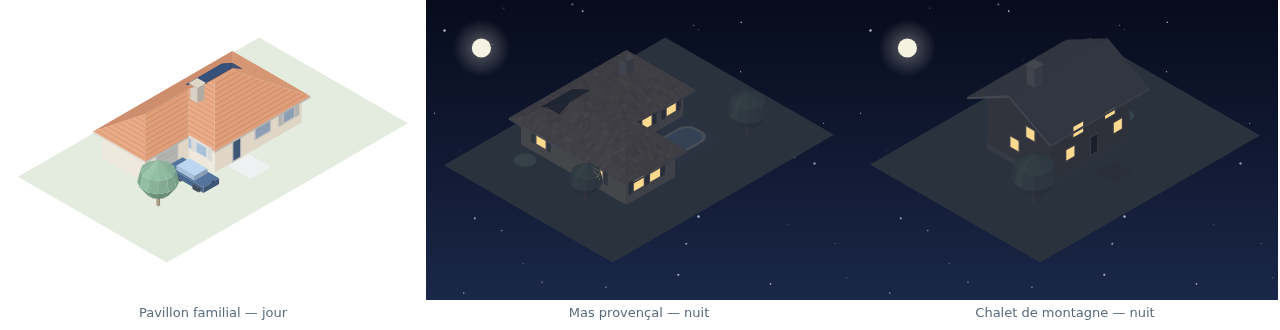
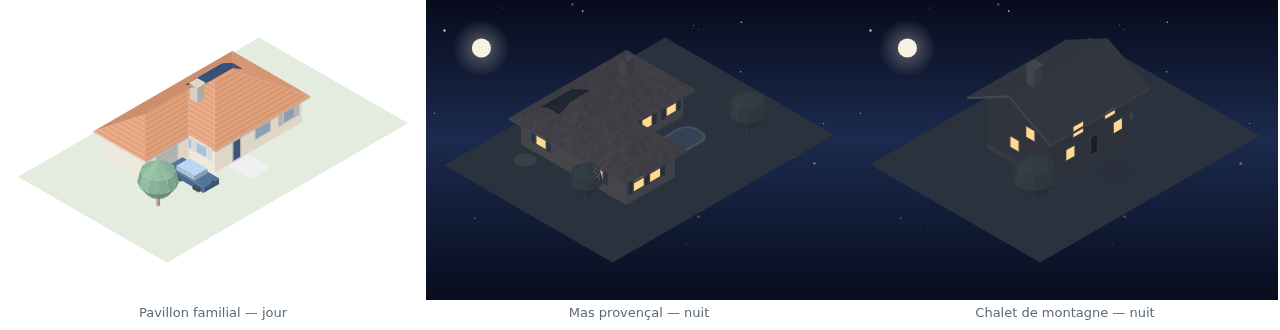
Arrête les étoiles avant le bas, et rend le ciel sous cadrage
Deux défauts signalés sur la vue de nuit, dont le second révèle une
contradiction que j'avais laissée dans la conception.

Le champ d'étoiles descendait jusqu'au bas de l'image, sous le jardin : la
maison paraissait flotter dans l'espace. Les étoiles s'éteignent maintenant en
traversant la moitié basse, et le dégradé du ciel gagne un troisième arrêt pour
s'assombrir à nouveau sous l'horizon au lieu de rester clair jusqu'en bas.

Sous cadrage, le ciel n'apparaissait pas du tout : le fond de terrain que
j'avais ajouté pour empêcher un recadrage serré de montrer un coin vide
couvrait l'image entière — et de surcroît sans traitement de nuit, donc en vert
pelouse de plein jour. Les deux ne peuvent pas coexister, et il vaut la peine
de dire pourquoi : en axonométrie, un sol non borné se projette sur *toute*
l'image. S'il y a un ciel, c'est uniquement parce que la parcelle est finie.
Fond de terrain pleine image et ciel visible sont le même réglage à ses deux
extrêmes. Le jour garde l'aplat, la nuit garde le ciel.

Le test du dégradé échantillonnait le haut et le bas de l'image, désormais
deux noirs presque identiques : il aurait passé que le dégradé survive ou non.
Il compare maintenant l'horizon aux deux extrémités. Les deux corrections sont
vérifiées en les retirant.

124 tests.

diff --git a/src/render/svg.js b/src/render/svg.js
@@ -288,16 +288,23 @@ function pathData(face, camera) {
  * preview, and re-exporting tomorrow has to give the same image.
  */
 function nightSky(width, height, defs, prefix) {
+  // Three stops, not two. The sky lightens a little towards the horizon and
+  // goes dark again below it: with a single fall from zenith to floor, the
+  // bottom of the picture stayed as starry as the top and the plot read as
+  // floating in space rather than standing on the ground at night.
   const id = `${prefix}-sky`;
   defs.push(
     `<linearGradient id="${id}" x1="0" y1="0" x2="0" y2="1">` +
     `<stop offset="0" stop-color="${NIGHT.sky[0]}"/>` +
-    `<stop offset="1" stop-color="${NIGHT.sky[1]}"/></linearGradient>`,
+    `<stop offset="0.46" stop-color="${NIGHT.sky[1]}"/>` +
+    `<stop offset="1" stop-color="${NIGHT.sky[2]}"/></linearGradient>`,
   );
   const out = [`<rect width="${width}" height="${height}" fill="url(#${id})"/>`];
 
-  // Scattered over the whole frame, not only the upper part: the ground and
-  // the house cover the rest, which is exactly how a sky behaves.
+  // Stars belong overhead. They thin out through the lower half and are gone
+  // by the bottom of the frame — the plot is finite, so there is sky around it
+  // whichever way you look, and a starfield underneath the garden is the one
+  // reading nobody wants.
   const n = Math.min(220, Math.round((width * height) / 2600));
   const hash = (i, k) => {
     const v = Math.sin(i * 12.9898 + k * 78.233) * 43758.5453;
@@ -305,10 +312,13 @@ function nightSky(width, height, defs, prefix) {
   };
   const stars = [];
   for (let i = 0; i < n; i++) {
+    const y = hash(i, 2) * height;
+    const fade = Math.max(0, Math.min(1, (0.88 * height - y) / (0.43 * height)));
+    if (fade < 0.02) continue;
     const r = (0.4 + hash(i, 3) * 1.0).toFixed(2);
     stars.push(`<circle cx="${(hash(i, 1) * width).toFixed(1)}" `
-      + `cy="${(hash(i, 2) * height).toFixed(1)}" r="${r}" `
-      + `opacity="${(0.25 + hash(i, 4) * 0.6).toFixed(2)}"/>`);
+      + `cy="${y.toFixed(1)}" r="${r}" `
+      + `opacity="${((0.25 + hash(i, 4) * 0.6) * fade).toFixed(2)}"/>`);
   }
   out.push(`<g fill="${NIGHT.star}">${stars.join('')}</g>`);
 
@@ -352,6 +362,11 @@ export function renderScene(input, opts = {}) {
   const b = built.bounds.empty ? { i0: 0, j0: 0, i1: 1, j1: 1 } : built.bounds;
   const cs = model.grid?.cellSize || 1;
   const framed = model.focus?.enabled;
+  // Night is a grade over whichever palette is in use, applied once, at the
+  // point the fills are computed: the textures take their shades from `fill`
+  // and the outlines are derived from it, so both follow without knowing.
+  const night = !!model.style.night;
+  const graded = (mat, hex) => (night ? nightColour(mat, hex) : hex);
   const camera = new Camera({
     yaw: model.camera.yaw,
     pitch: model.camera.pitch,
@@ -419,8 +434,14 @@ export function renderScene(input, opts = {}) {
    * stretches away without bound. Painting the frame in the ground's own
    * colour first does, and costs one rectangle. Only under a frame: in the
    * ordinary view the edge of the plot is a real edge, worth seeing.
+   *
+   * And not at night, where the sky already fills the frame. Note what this
+   * says about an axonometric view: an unbounded ground plane projects over
+   * the *whole* image, so a sky can only exist because the plot is finite. A
+   * full-bleed ground and a visible sky are the same setting at two ends —
+   * you cannot have both, and after dark the sky is the one worth having.
    */
-  if (framed && model.ground?.enabled) {
+  if (framed && !night && model.ground?.enabled) {
     floor.push(`<rect width="${width}" height="${height}" `
       + `fill="${faceColour(model.ground.material, theme, ov, [0, 0, 1])}"/>`);
   }
@@ -428,8 +449,6 @@ export function renderScene(input, opts = {}) {
   // Night is a grade over whichever palette is in use, applied once here: the
   // textures take their own shades from `fill`, and the outlines are derived
   // from it, so both follow without knowing anything about it.
-  const night = !!model.style.night;
-  const graded = (mat, hex) => (night ? nightColour(mat, hex) : hex);
   ordered.forEach((f, i) => {
     const sink = f.group === 'ground' ? floor : out;
     const fill = graded(f.mat, f.mat === 'shadow'

diff --git a/tests/run.js b/tests/run.js
@@ -1539,6 +1539,40 @@ check('le ciel étoilé est identique d’un rendu à l’autre', () => {
   return (a.match(/<circle/g) || []).length > 30 || 'aucune étoile';
 });
 
+check('les étoiles s’arrêtent avant le bas de l’image', () => {
+  // Reported in use: a starfield under the garden reads as a house floating in
+  // space. The plot is finite, so there is sky all round it — but only what is
+  // overhead should be starry.
+  const m = normalise({ ...defaultModel(), style: { ...defaultModel().style, night: true } });
+  const svg = renderScene(m, { width: 400, height: 400 }).svg;
+  let low = 0, high = 0;
+  for (const [, cy] of [...svg.matchAll(/<circle cx="[\d.]+" cy="([\d.]+)" r=/g)].map((x) => x)) {
+    (Number(cy) > 340 ? () => { low++; } : () => { high++; })();
+  }
+  if (!high) return 'aucune étoile';
+  return low === 0 || `${low} étoiles dans le dernier dixième de l’image`;
+});
+
+check('sous cadrage, la nuit garde son ciel', () => {
+  // The daytime frame is backed by a plain fill of the ground colour, to stop
+  // a tight crop showing a wedge of nothing. At night that fill hid the sky
+  // entirely. Worth stating why they cannot both apply: an unbounded ground
+  // plane projects over the whole image in axonometry, so a sky exists only
+  // because the plot is finite.
+  const base = defaultModel();
+  const focus = { enabled: true, x: 12, y: 12, w: 8, d: 6, margin: 1, hide: true, vignette: 0 };
+  const day = renderScene(normalise({ ...base, focus }), { width: 300, height: 220 }).svg;
+  const dark = renderScene(normalise({
+    ...base, focus, style: { ...base.style, night: true },
+  }), { width: 300, height: 220 }).svg;
+  if (!/linearGradient/.test(dark)) return 'pas de ciel sous cadrage';
+  // One full-frame rectangle at night (the sky), two by day (sky-less: the
+  // ground backing plus nothing else).
+  const rects = (svg) => (svg.match(/<rect width="300" height="220"/g) || []).length;
+  if (rects(dark) !== 1) return `${rects(dark)} fonds pleins de nuit`;
+  return rects(day) === 1 || `${rects(day)} fonds pleins de jour`;
+});
+
 await checkAsync('une vue de nuit a un ciel, même en fond transparent', async () => {
   // The one setting this mode overrides, and on purpose: a transparent picture
   // of a dark house is not a night view. Checked on pixels — the sky is a
@@ -1553,12 +1587,16 @@ await checkAsync('une vue de nuit a un ciel, même en fond transparent', async (
   const ctx = canvas.getContext('2d');
   ctx.drawImage(img, 0, 0);
   const top = ctx.getImageData(W - 4, 2, 1, 1).data;
+  const horizon = ctx.getImageData(W - 4, Math.round(H * 0.46), 1, 1).data;
   const bottom = ctx.getImageData(W - 4, H - 3, 1, 1).data;
   if (top[3] !== 255 || bottom[3] !== 255) return `ciel absent (alpha ${top[3]}, ${bottom[3]})`;
   if (top[2] <= top[0]) return 'le ciel n’est pas bleu';
-  // The gradient runs from zenith to horizon; if it were dropped the two
-  // samples would come out identical.
-  return Math.abs(top[2] - bottom[2]) > 6 || 'le dégradé du ciel n’a pas survécu';
+  // Three stops: dark at the zenith, lighter at the horizon, dark again below.
+  // Sampling only the two ends would now compare two near-identical darks and
+  // pass whether or not the gradient survived — which is how the first version
+  // of this check would have missed it.
+  if (horizon[2] <= top[2] + 6) return 'le dégradé du ciel n’a pas survécu';
+  return horizon[2] > bottom[2] + 6 || 'le ciel ne s’assombrit pas sous l’horizon';
 });
 
 /* ---------------- occlusion ---------------- */

diff --git a/src/core/palette.js b/src/core/palette.js
@@ -188,7 +188,7 @@ export const FIXED = {
  * staying stubbornly orange in the dark.
  */
 export const NIGHT = {
-  sky: ['#070b1c', '#1a2748'],   // zenith, then horizon
+  sky: ['#070b1c', '#1b2a4e', '#080d1e'],   // zenith, horizon, below
   moon: '#f6f2e2',
   star: '#dfe6f5',
   // Windows are the point of a night view on a home dashboard: they say

diff --git a/README.md b/README.md
@@ -86,6 +86,19 @@ Les **fenêtres restent allumées**, en jaune chaud. C'est tout l'intérêt d'un
 vue nocturne sur un tableau de bord domotique : elle dit si la maison est
 éveillée.
 
+Les **étoiles s'arrêtent avant le bas de l'image**. En axonométrie, un sol non
+borné se projette sur *toute* l'image : s'il y a un ciel, c'est uniquement parce
+que la parcelle est finie — donc il y en a tout autour d'elle, dessous compris.
+Un champ d'étoiles sous le jardin donne une maison flottant dans l'espace, ce
+que personne ne cherche. Seul ce qui est au-dessus est étoilé, et le dégradé
+s'assombrit à nouveau sous l'horizon.
+
+La même remarque explique un arbitrage : sous cadrage, le jour double le fond
+d'un aplat de la couleur du terrain, pour qu'un recadrage serré ne montre pas un
+coin vide. La nuit, ce même aplat masquait le ciel entièrement. Les deux ne
+peuvent pas coexister — c'est le même réglage à ses deux extrêmes — et après la
+tombée du jour, c'est le ciel qui vaut la peine.
+
 Une réserve à connaître : la vue de nuit **impose son ciel** et ne peut donc pas
 garder un fond transparent. Une image transparente de maison sombre n'est pas
 une vue de nuit.
